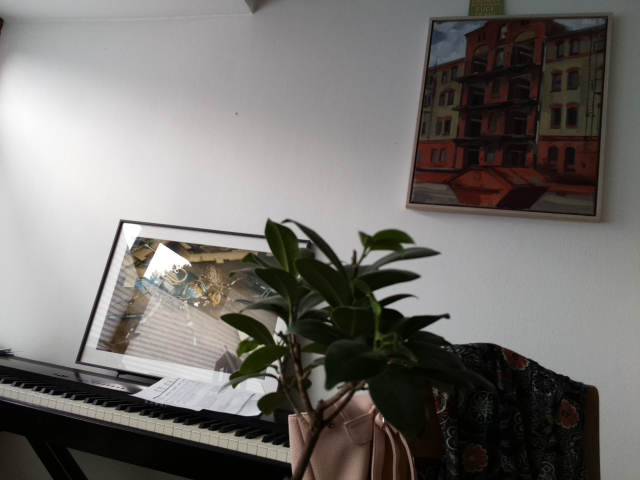
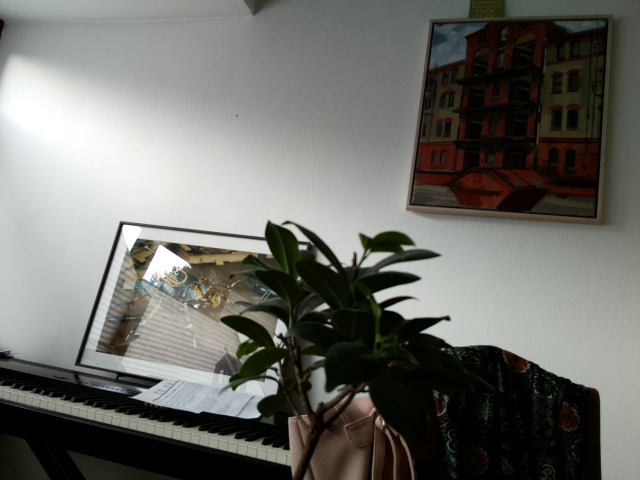
Taking pictures on a regular base using setTimeout

diff --git a/plant-cam/index.js b/plant-cam/index.js
@@ -13,26 +13,20 @@ const myCamera = new PiCamera({
   nopreview: true,
 });
 
-
-myCamera.snap()
-  .then((result) => {
-    // Your picture was captured
-    console.log(result);
-  })
-  .catch((error) => {
-     // Handle your error
-  });
-
-app.get('/', function(req, res) {
-  res.sendFile(__dirname + '/plant.jpg');
+function takePicture() {
   myCamera.snap()
     .then((result) => {
-      // Your picture was captured
-      console.log(result);
+ 	setTimeout(takePicture,1);   
     })
     .catch((error) => {
        // Handle your error
     });
+}
+
+takePicture();
+
+app.get('/', function(req, res) {
+  res.sendFile(__dirname + '/plant.jpg');
 });
 
 http.listen(3000, function() {
